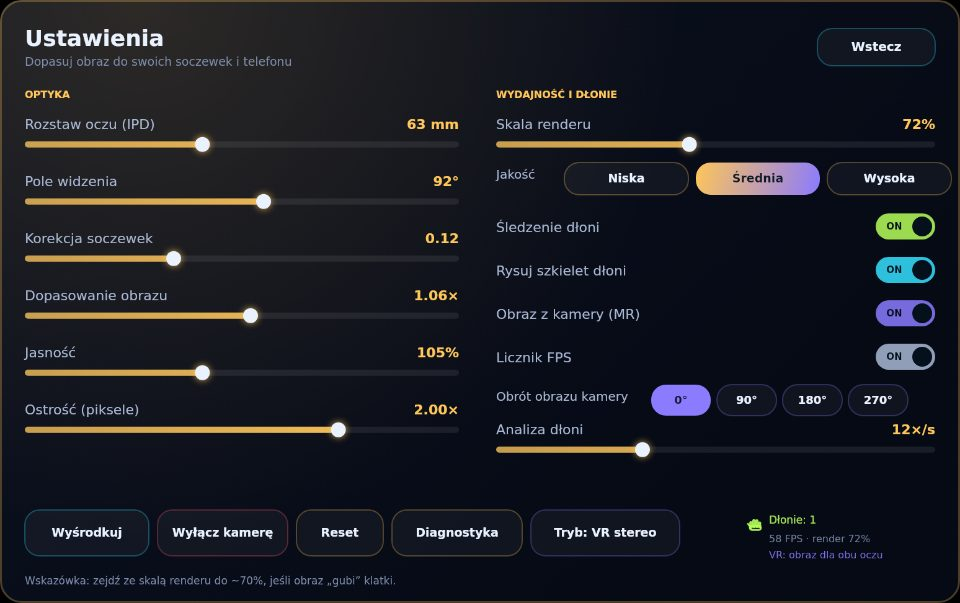
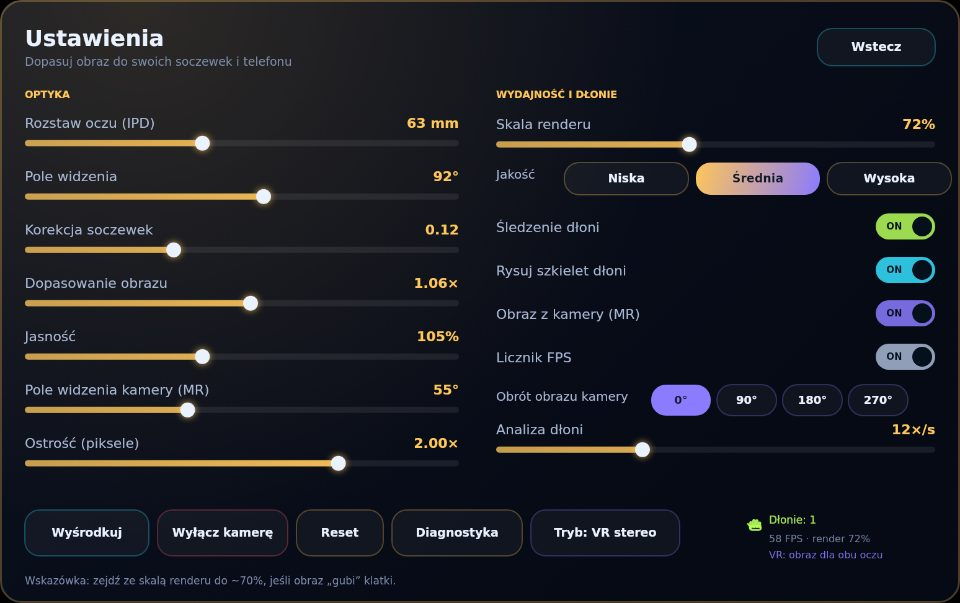
Ustawienia: suwak pola widzenia kamery (kadrowanie MR), domyślnie 55°

diff --git a/src/apps/SettingsApp.ts b/src/apps/SettingsApp.ts
@@ -111,11 +111,12 @@ export class SettingsApp implements VrApp {
 
     // --- kolumna A: optyka ---
     text(ctx, 'OPTYKA', COL_A.x, 158, { size: 16, weight: 700, color: C.amber });
-    this.sliderRow(panel, COL_A.x, 208, COL_A.w, 'set:ipd', 'Rozstaw oczu (IPD)', settings.ipd * 1000, 54, 76, (v) => `${Math.round(v)} mm`);
-    this.sliderRow(panel, COL_A.x, 300, COL_A.w, 'set:fov', 'Pole widzenia', settings.fov, 70, 110, (v) => `${Math.round(v)}°`);
-    this.sliderRow(panel, COL_A.x, 392, COL_A.w, 'set:lens', 'Korekcja soczewek', settings.lens, 0, 0.35, (v) => v.toFixed(2));
-    this.sliderRow(panel, COL_A.x, 484, COL_A.w, 'set:zoom', 'Dopasowanie obrazu', settings.zoom, 0.8, 1.3, (v) => `${v.toFixed(2)}×`);
-    this.sliderRow(panel, COL_A.x, 576, COL_A.w, 'set:brightness', 'Jasność', settings.brightness, 0.6, 1.7, (v) => `${Math.round(v * 100)}%`);
+    this.sliderRow(panel, COL_A.x, 206, COL_A.w, 'set:ipd', 'Rozstaw oczu (IPD)', settings.ipd * 1000, 54, 76, (v) => `${Math.round(v)} mm`);
+    this.sliderRow(panel, COL_A.x, 292, COL_A.w, 'set:fov', 'Pole widzenia', settings.fov, 70, 110, (v) => `${Math.round(v)}°`);
+    this.sliderRow(panel, COL_A.x, 378, COL_A.w, 'set:lens', 'Korekcja soczewek', settings.lens, 0, 0.35, (v) => v.toFixed(2));
+    this.sliderRow(panel, COL_A.x, 464, COL_A.w, 'set:zoom', 'Dopasowanie obrazu', settings.zoom, 0.8, 1.3, (v) => `${v.toFixed(2)}×`);
+    this.sliderRow(panel, COL_A.x, 550, COL_A.w, 'set:brightness', 'Jasność', settings.brightness, 0.6, 1.7, (v) => `${Math.round(v * 100)}%`);
+    this.sliderRow(panel, COL_A.x, 636, COL_A.w, 'set:camfov', 'Pole widzenia kamery (MR)', settings.cameraFov, 40, 80, (v) => `${Math.round(v)}°`);
 
     // --- kolumna B: wydajność i dłonie ---
     text(ctx, 'WYDAJNOŚĆ I DŁONIE', COL_B.x, 158, { size: 16, weight: 700, color: C.amber });
@@ -157,7 +158,7 @@ export class SettingsApp implements VrApp {
       panel.hit(id, bx, 620, bw, 50);
     });
 
-    this.sliderRow(panel, COL_A.x, 668, COL_A.w, 'set:ostrosc', 'Ostrość (piksele)', settings.pixelRatio, 0.7, 2.5, (v) => `${v.toFixed(2)}×`);
+    this.sliderRow(panel, COL_A.x, 722, COL_A.w, 'set:ostrosc', 'Ostrość (piksele)', settings.pixelRatio, 0.7, 2.5, (v) => `${v.toFixed(2)}×`);
     this.sliderRow(panel, COL_B.x, 700, COL_B.w, 'set:handhz', 'Analiza dłoni', settings.handHz, 6, 24, (v) => `${Math.round(v)}×/s`);
 
     // --- dolny pasek ---
@@ -298,6 +299,11 @@ export class SettingsApp implements VrApp {
         break;
       case 'set:ostrosc':
         settings.pixelRatio = Number(settings.pixelRatio.toFixed(2));
+        saveSettings();
+        this.host.applySettings();
+        break;
+      case 'set:camfov':
+        settings.cameraFov = Math.round(settings.cameraFov);
         saveSettings();
         this.host.applySettings();
         break;

diff --git a/src/core/settings.ts b/src/core/settings.ts
@@ -74,7 +74,7 @@ export const DEFAULT_SETTINGS: Settings = {
   passthrough: true,
   handRotate: 0,
   dwell: 1.15,
-  cameraFov: 62,
+  cameraFov: 55,
   handDepthK: 0.075,
   showFps: true,
 };
